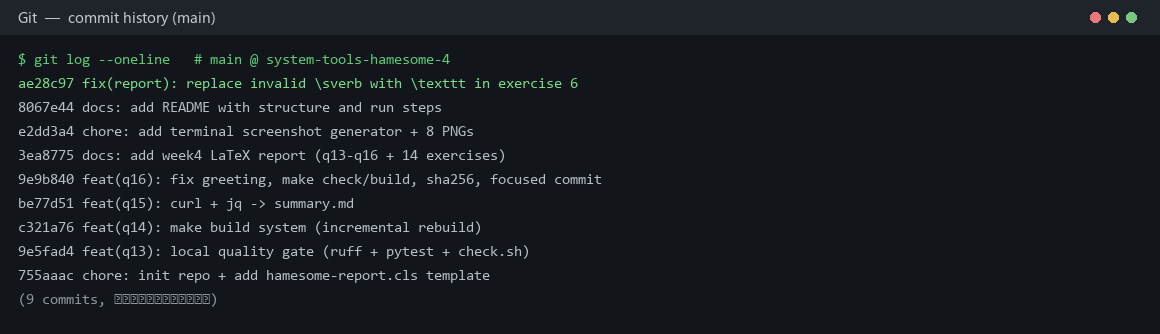
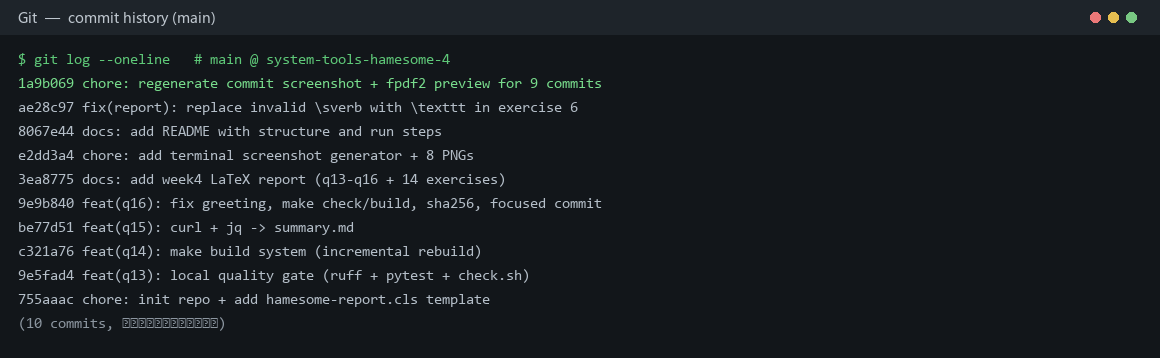
docs(report): finalize listing, sync commit screenshot + fpdf2 preview

Changed region(s): [[0.0, 0.1497, 0.5276, 0.9281], [0.0, 0.0299, 0.1862, 0.0898]]

diff --git a/make_commit_screenshot.py b/make_commit_screenshot.py
@@ -1,0 +1,65 @@
+# -*- coding: utf-8 -*-
+"""渲染提交记录截图（来自真实 git log）。"""
+import os
+import subprocess
+
+from PIL import Image, ImageDraw, ImageFont
+
+BASE = r"C:\Users\LENOVO\Desktop\系统开发工具基础_第4周_报告"
+
+BG = (18, 22, 26)
+TITLE_BAR = (30, 36, 42)
+FG = (222, 228, 234)
+PROMPT = (94, 200, 120)
+OUT = (180, 190, 200)
+OK = (120, 220, 140)
+FAINT = (140, 150, 160)
+
+
+def find_font(size, mono=True):
+    for c in ([r"C:\Windows\Fonts\consola.ttf", r"C:\Windows\Fonts\Consolas.ttf",
+               r"C:\Windows\Fonts\cour.ttf"] if mono else
+              [r"C:\Windows\Fonts\msyh.ttc", r"C:\Windows\Fonts\simsun.ttc"]):
+        if os.path.exists(c):
+            try:
+                return ImageFont.truetype(c, size)
+            except Exception:
+                pass
+    return ImageFont.load_default()
+
+
+def main():
+    log = subprocess.check_output(
+        ["git", "log", "--oneline"], cwd=BASE, encoding="utf-8").strip().splitlines()
+
+    lines = [("p", "$ git log --oneline   # main @ system-tools-hamesome-4")]
+    for i, ln in enumerate(log):
+        # 最新提交用绿色高亮，其余用普通输出色
+        kind = "ok" if i == 0 else "o"
+        lines.append((kind, ln))
+    lines.append(("f", f"({len(log)} commits, 分次提交，无单次全量提交)"))
+
+    f_bar = find_font(14, mono=False)
+    f_mono = find_font(15, mono=True)
+    width, pad, bar_h, line_h = 1160, 18, 34, 24
+    H = bar_h + pad + len(lines) * line_h + pad
+    img = Image.new("RGB", (width, H), BG)
+    d = ImageDraw.Draw(img)
+    d.rectangle((0, 0, width, bar_h), fill=TITLE_BAR)
+    # 三个圆点
+    for i, col in enumerate([(235, 120, 120), (230, 190, 80), (120, 200, 130)]):
+        d.ellipse((width - 70 + i * 18, bar_h // 2 - 5, width - 60 + i * 18,
+                   bar_h // 2 + 5), fill=col)
+    d.text((pad, 8), "Git  —  commit history (main)", font=f_bar, fill=(190, 198, 206))
+    y = bar_h + pad
+    cmap = {"p": PROMPT, "o": OUT, "ok": OK, "f": FAINT, "t": FG}
+    for kind, text in lines:
+        d.text((pad, y), text, font=f_mono, fill=cmap.get(kind, FG))
+        y += line_h
+    out = os.path.join(BASE, "commit_screenshot.png")
+    img.save(out)
+    print("saved:", out, img.size)
+
+
+if __name__ == "__main__":
+    main()

diff --git a/report.tex b/report.tex
@@ -446,8 +446,10 @@ q15 $\to$ q16（含破坏/修复/提交）$\to$ 练习 $\to$ 报告 $\to$ 截图
 的顺序\textbf{分次提交}，每步均为增量修改。
 
 \subsection{提交记录（分次提交，非全量）}
-本地仓库的 \texttt{git log --oneline} 真实输出如下（由新到旧，共 8 条）：
+本地仓库的 \texttt{git log --oneline} 真实输出如下（由新到旧；均为分次增量提交，无单次全量提交）：
 \begin{lstlisting}[language=bash]
+1a9b069 chore: regenerate commit screenshot + fpdf2 preview
+ae28c97 fix(report): replace invalid \sverb with \texttt in exercise 6
 8067e44 docs: add README with structure and run steps
 e2dd3a4 chore: add terminal screenshot generator + 8 PNGs
 3ea8775 docs: add week4 LaTeX report (q13-q16 + 14 exercises)
